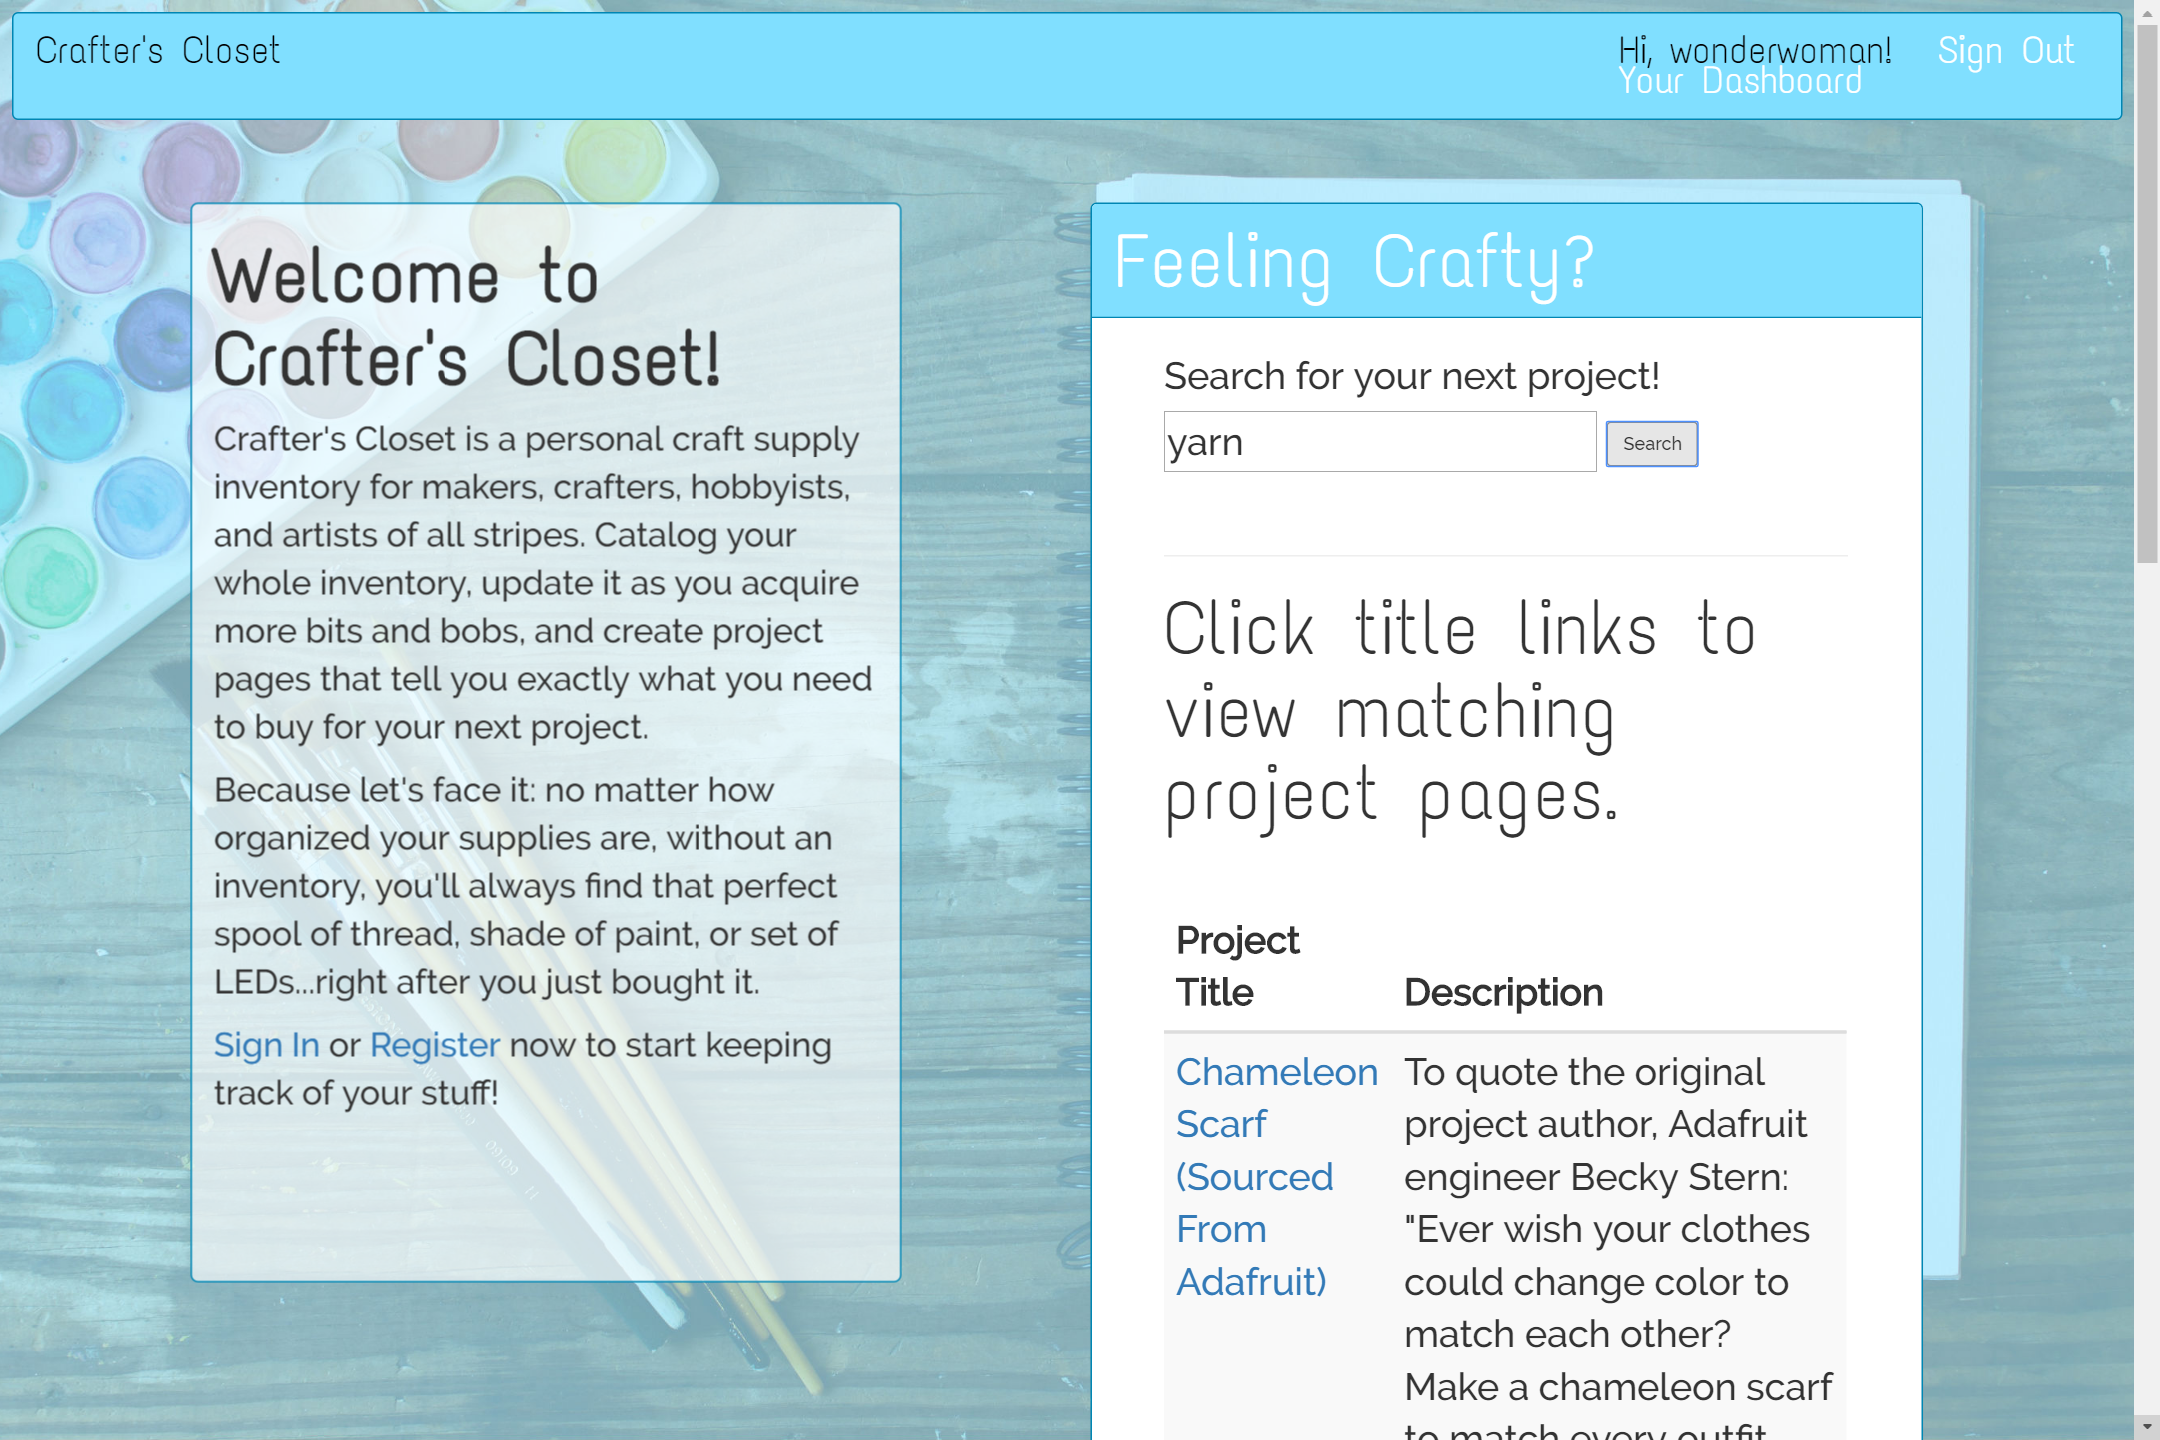
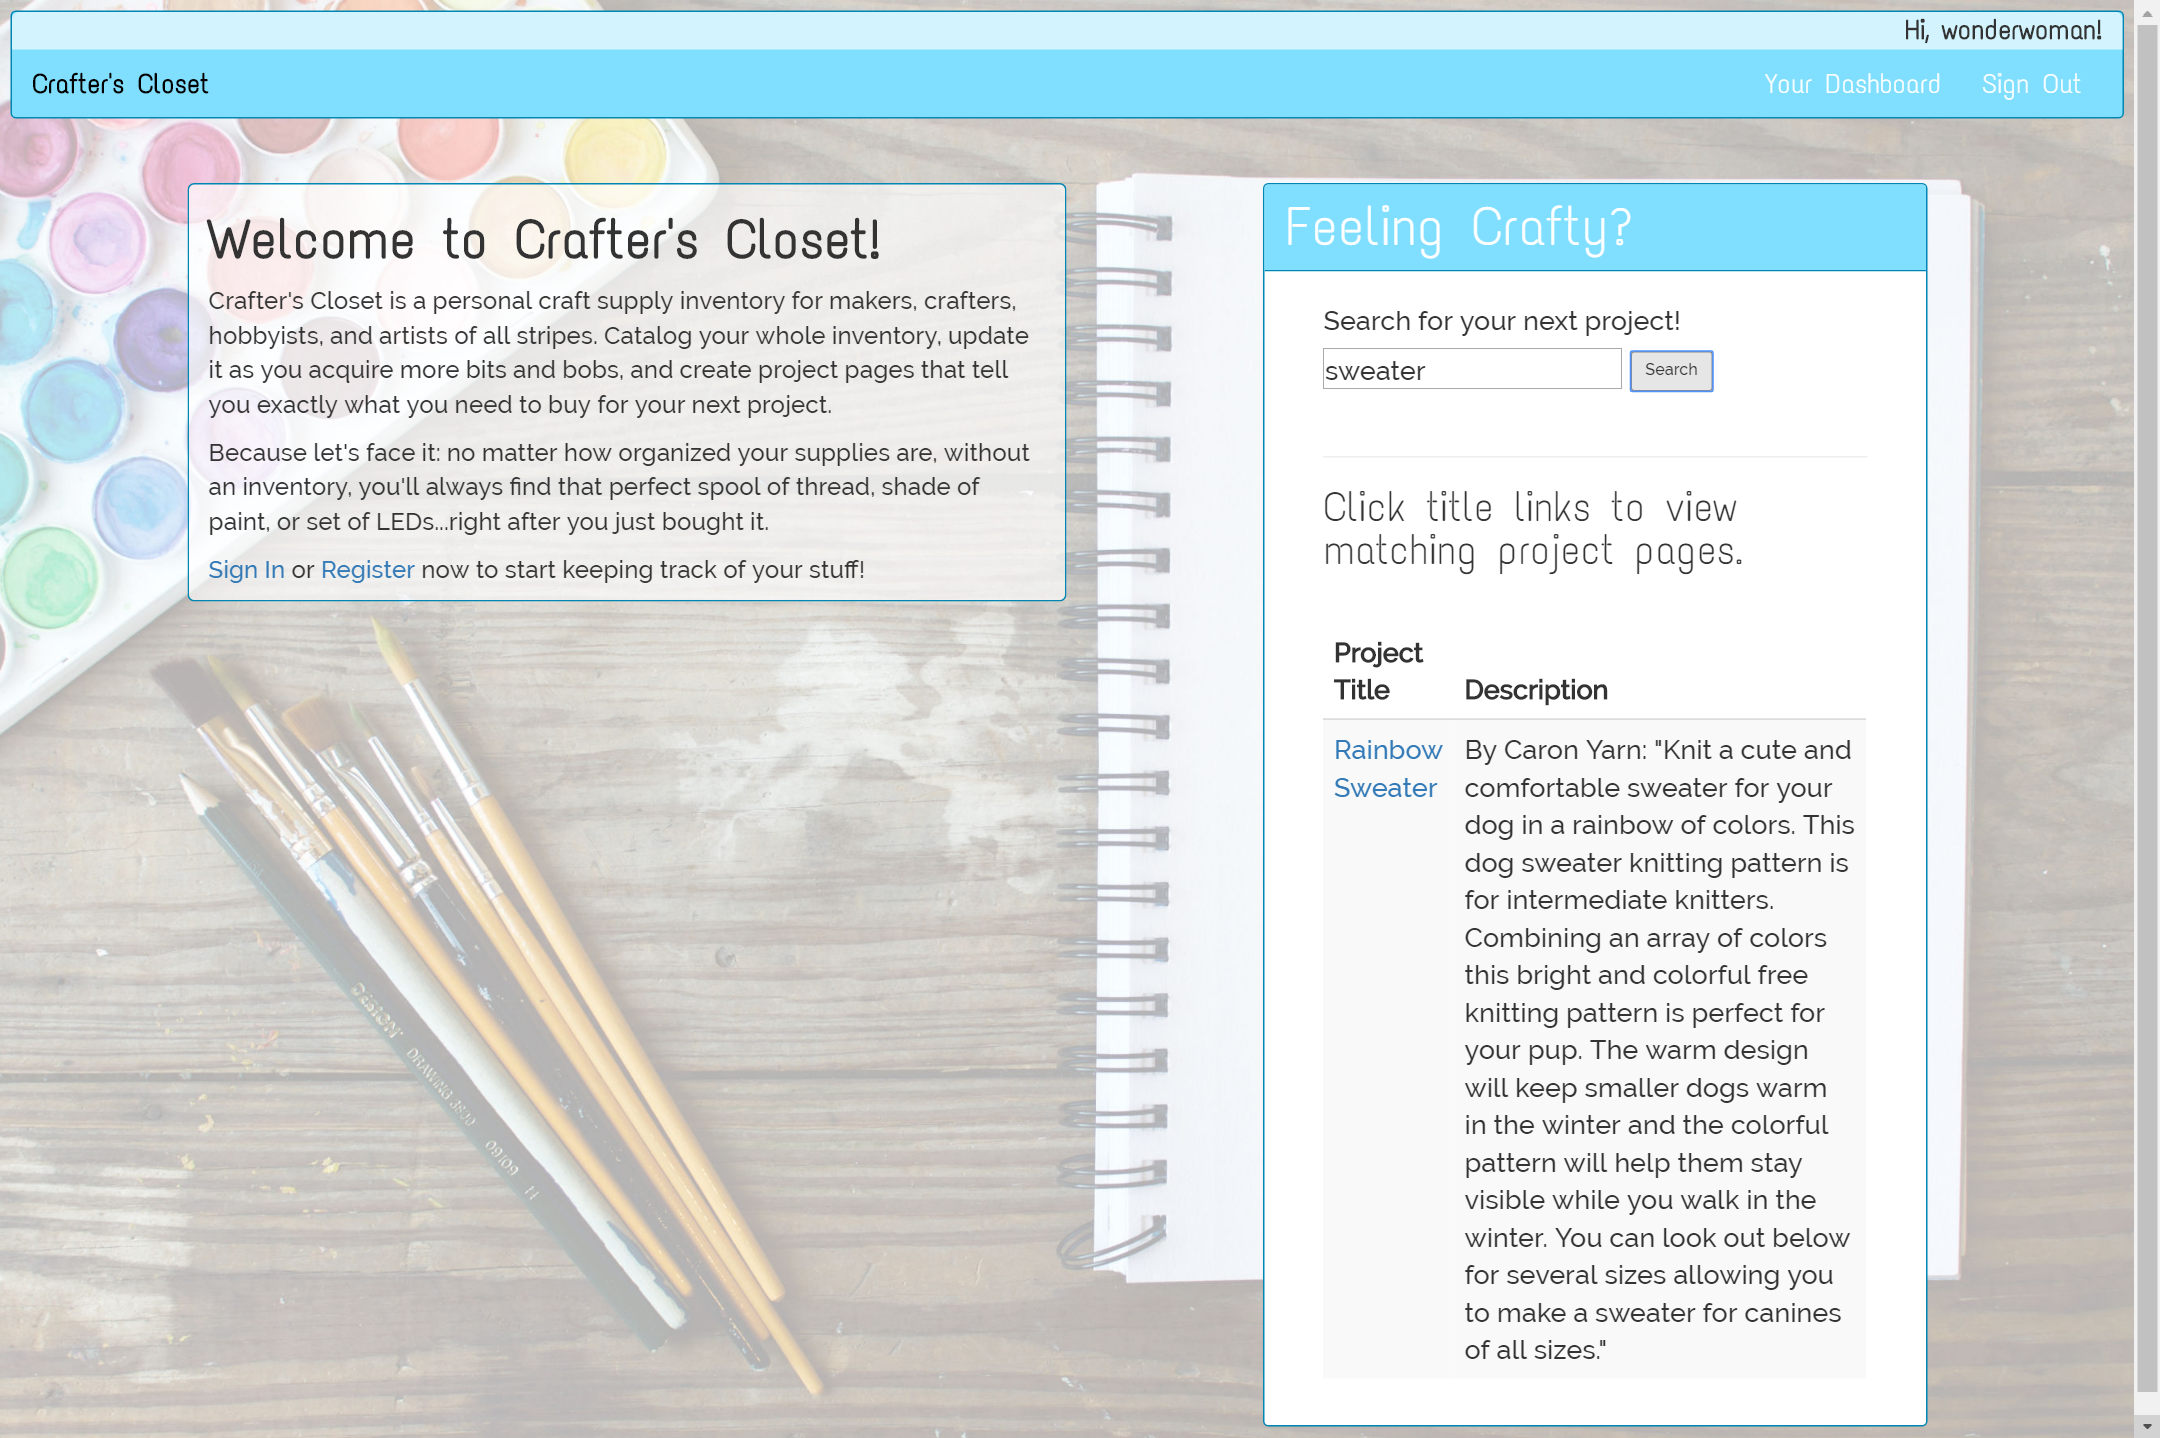
Updated readme with new screenshots and more detailed explanations of features.

diff --git a/templates/homepage.html b/templates/homepage.html
@@ -21,7 +21,9 @@ Home
         inventory, you'll always find that perfect spool of thread, shade of paint,
         or set of LEDs...right after you just bought it.</p>
 
+        {% if "username" not in session %}
         <p class="intro"><a href="/login">Sign In</a> or <a href="/register">Register</a> now to start keeping track of your stuff!
+        {% endif %}
     </div>
     <div class="col-xs-offset-1 col-xs-10 col-md-offset-1 col-md-4">
     <div class="panel panel-primary proj-search">

diff --git a/README.md b/README.md
@@ -1,5 +1,7 @@
 ##Welcome to Crafter's Closet!
-I built Crafter's Closet to be a personal inventory tool for DIY/hobby/art supplies of all kinds. It tracks how many craft supplies a user owns and figures out what they should buy to build a new project. Authenticated users have access to a dashboard where they can filter and search their inventory, add new supplies, update existing supplies, view a chart of the supply types they own, and view a list of their projects. When creating a project page, a user gives general project details and a list of supplies needed to build the project. When an authenticated user views a project page, Crafter's Closet shows how many of each required supply the user would need to buy. Any user can also search the Crafter's Closet project pages to find fun crafts to make.
+Crafter's Closet is an personal inventory tool for DIY/hobby/art supplies of all kinds. Once you tell Crafter's Closet how many pieces of a craft supply you own, the app figures out exactly how much of that supply you should buy to build a new project.
+
+If you're authenticated, you'll have access to a dashboard where you can filter and search your inventory, add new supplies, update existing supplies, view a chart of the supply types you own, and view a list of your projects. When creating a project page, you can give general project details (title, description, and so on) as well as a list of supplies needed to build the project. When you views a project page while authenticated, Crafter's Closet shows you how many of each required supply you would need to buy. Any user (authenticated or not) can also search the Crafter's Closet project pages to find fun crafts to make.
 
 ## Tech Stack
 Crafter's Closet uses the following technologies:
@@ -11,20 +13,65 @@ Crafter's Closet uses the following technologies:
 * Bcrypt
 * Jinja
 * JavaScript
+* AJAX
 * JQuery
 * JQuery UI (Autocomplete Widget)
 * Chart.js
-* AJAX
 * Bootstrap
 
-## Screenshots
+## A Brief Tour
+Now that you know what runs Crafter's Closet and what the app is supposed to do, let's take a quick look at how users can access this project's features.
 
+### The Homepage
+
+Here's the homepage, as viewed by an authenticated user:
 ![](static/assets/Screenshots/Homepage.png)
 
+An authenticated user can navigate to their dashboard from the homepage or anywhere else on the site, thanks to the Bootstrap navbar at the top. Both authenticated and unauthenticated users can search for projects and navigate to those project pages from here, too.
+
+### The Dashboard
+
+The user dashboard is where most of the magic happens in Crafter's Closet. This page is the hub for all your inventory-tracking needs, and it's where you can view projects you want to make.
+
+#### Inventory Composition Chart
+
+The chart below is powered by Chart.js.
 ![](static/assets/Screenshots/DashboardChart.png)
+
+Each slice of this doughnut chart roughly represents how much physical space a type of craft takes up in your inventory. For instance, wonderwoman--the demo user in all these screenshots--has 5 yds of felt (blue on the chart), which definitely take up a lot more space than the 18 tiny LEDs she owns (purple on the chart).
+
+#### Inventory Table and Filter/Search Options
+
+This section of the dashboard lets you decide which pieces of your inventory you actually want to see, as well as add new items and update your stock whenever you use an item.
 
 ![](static/assets/Screenshots/Inventory.png)
 
+The three dropdown filter menus have on-change events attached to them that ask for a version of the inventory table that only contains items matching those filters. (Search works the same way, but with arbitrary strings.) When you click an Update Stock button, JQuery plops a little text box down under your current stock amount, so you can type a new value. Click **Done!** to send that value to the database and update your table.
+
+#### Adding a Supply
+
+This wouldn't be much of an inventory app if you couldn't add new stuff to it! When you click Create New Inventory Item, a modal window drops down, showing a series of auto-populating dropdown menus and text fields.
+
+![](static/assets/Screenshots/Add-Supply.png)
+
+Clicking the Supply Type button causes the Brand dropdown to fill with only brands from the database associated with that supply type. (That list is obtained via a GET request to the server, which passes the list forward after making a database query.) After you choose a brand, just start typing in the Color field for an autocompleted list of existing options that contain the text you're typing. Autocomplete comes courtesy of the JQuery UI library.
+
+The autocomplete widget is hiding a quantity field and a units field; the units field always corresponds to the units associated with the chosen supply type.
+
+#### Creating a New Project
+
+To find out how many supplies you need to make a project, you have to create some project pages first. Here's what that page looks like.
+
 ![](static/assets/Screenshots/Project-form.png)
 
+Just add some basic details about your project, and start adding supplies. Selecting a supply type once again causes the Brand dropdown to auto-populate with relevant options, and choosing a brand does the same for colors. (I didn't want users to be able to choose colors that don't exist in the database for this part.) The other fields for the supply portion of the project form are the same as the forms from the modal window used to add supplies to your inventory.
+
+There's a really cool button called Add a New Supply hiding behind the Color dropdown in this screenshot. When you click this button, Crafter's Closet uses JavaScript to generate a new copy of the supply form, so you can add an arbitrary number of supplies to your project.
+
+#### The Project Page
+
+Once you create a project, you'll be redirected to that project's shiny new landing page.
+
 ![](static/assets/Screenshots/Project-Page.png)
+
+This screenshot shows a quote and photo from an amazing tutorial on Adafruit about making a color-changing scarf. The Supply Information table shows that wonderwoman needs to buy a little of every supply item listed for this project. The exact quantities to buy are calculated by a helper function written in Python.
